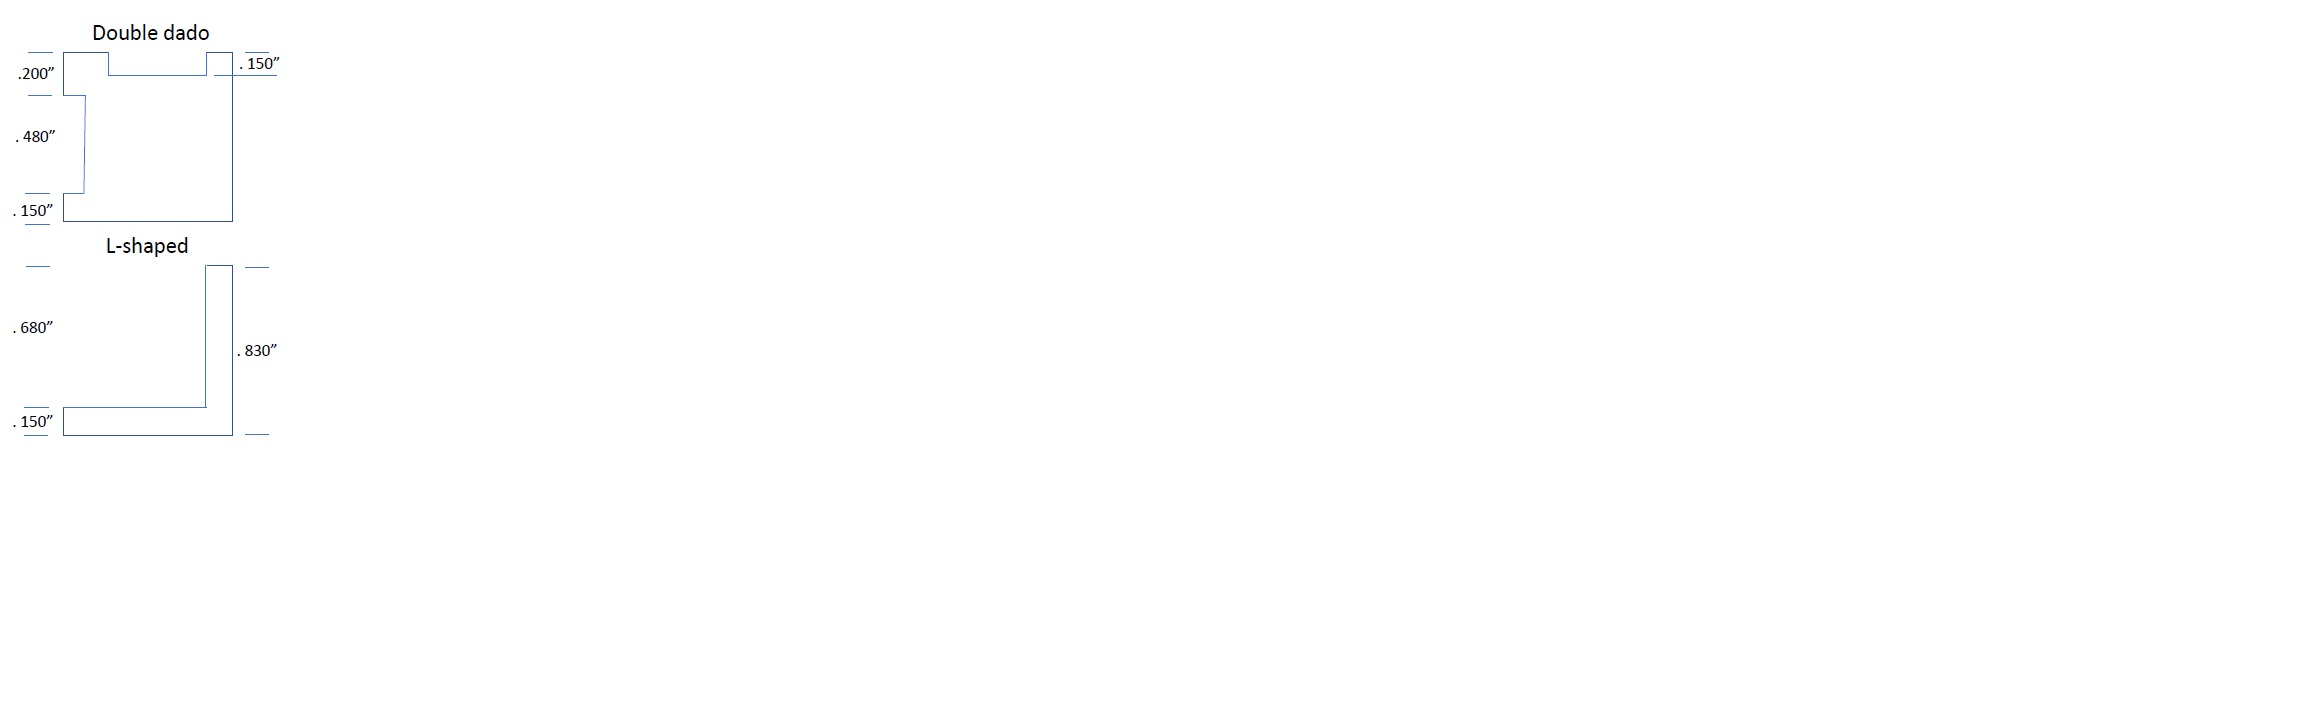
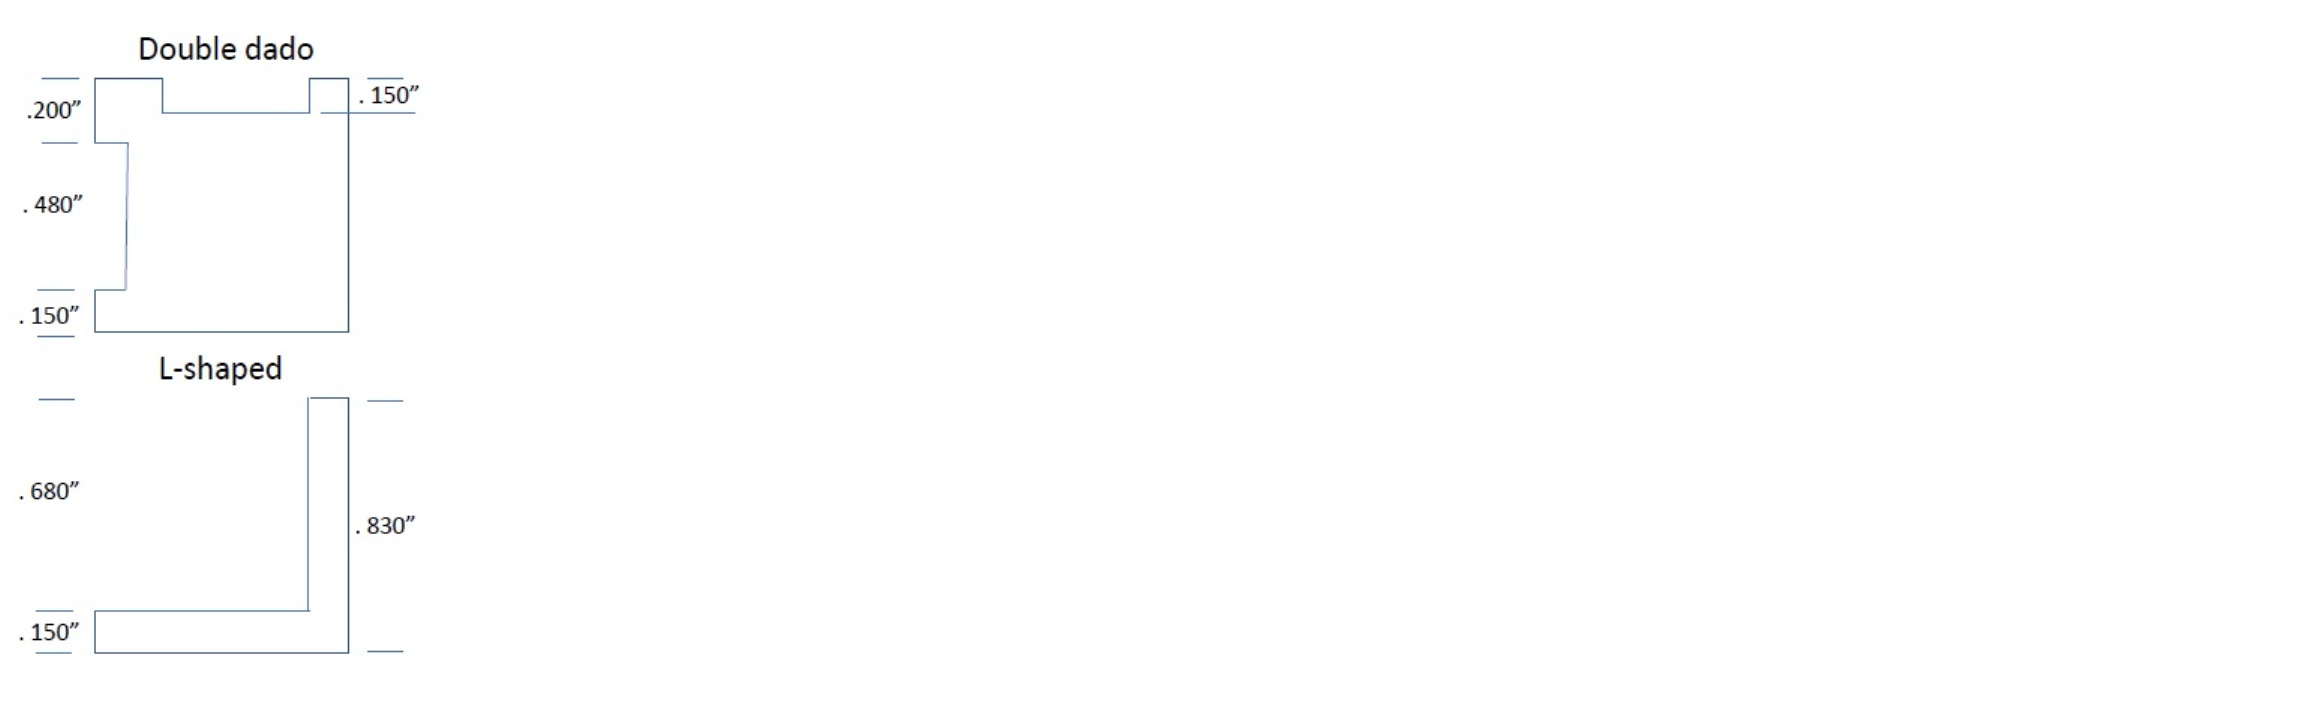
update README

diff --git a/gcode/README.md b/gcode/README.md
@@ -46,13 +46,13 @@ on the left. You can Bluetooth directly to the amp and bypass the computer.
 Following are the wood parts and components needed.
 
 ### Plywood
-The following pieces of 1/2" Baltic birch plywood are needed (nominal thickness: 0.480"). 
+Cut the following pieces of 1/2" Baltic birch plywood (nominal thickness: 0.480"). 
 
 | Description                | Qty | Size |
 | -----------                | --- | ---- |
 | Main panel                 | 1   | 19.875" x 32.295" |
 | Sides                      | 2   | 6.005" x 32.295" |
-| Internal vertical dividers | 2   | 6.375" x 6.875" ??? **TODO** verify these numbers |
+| Internal vertical dividers | 2   | 6.375" x 6.875" ? **TODO** verify these numbers |
 
 The main panel is cut on the CNC machine using two different jobs because the panel is longer than the maximum capacity of the CNC machine which is 30".
 Then it is cut into four smaller panels: the front, the bottom, the lower back and the internal horizontal divider.
